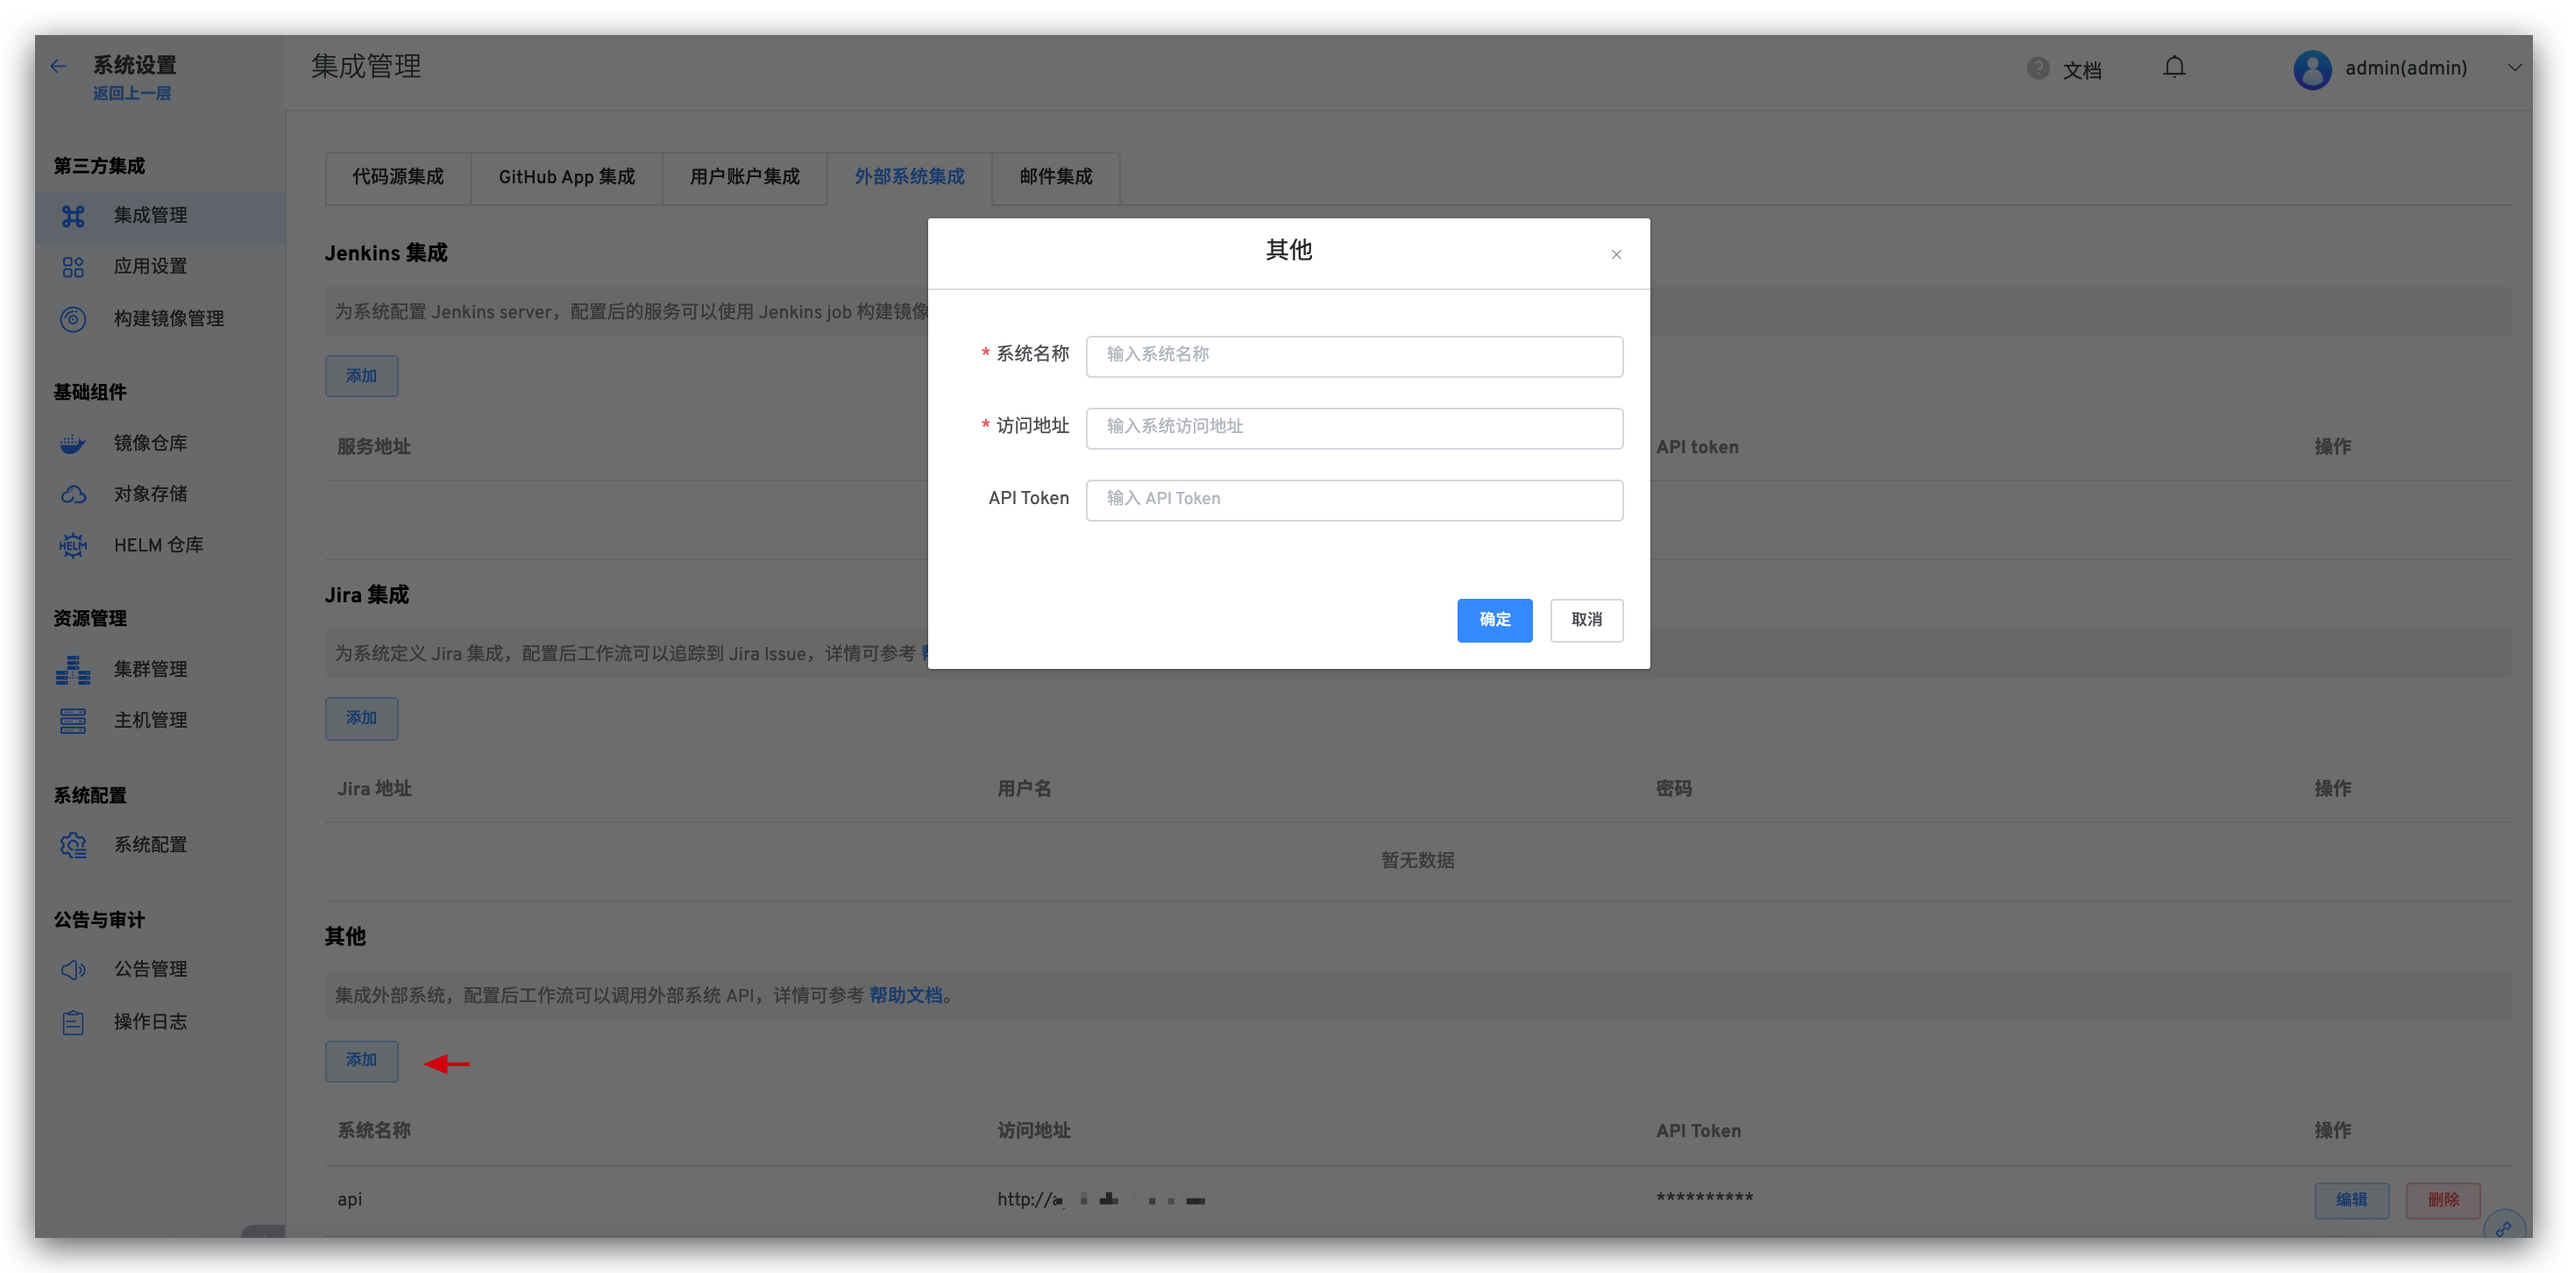
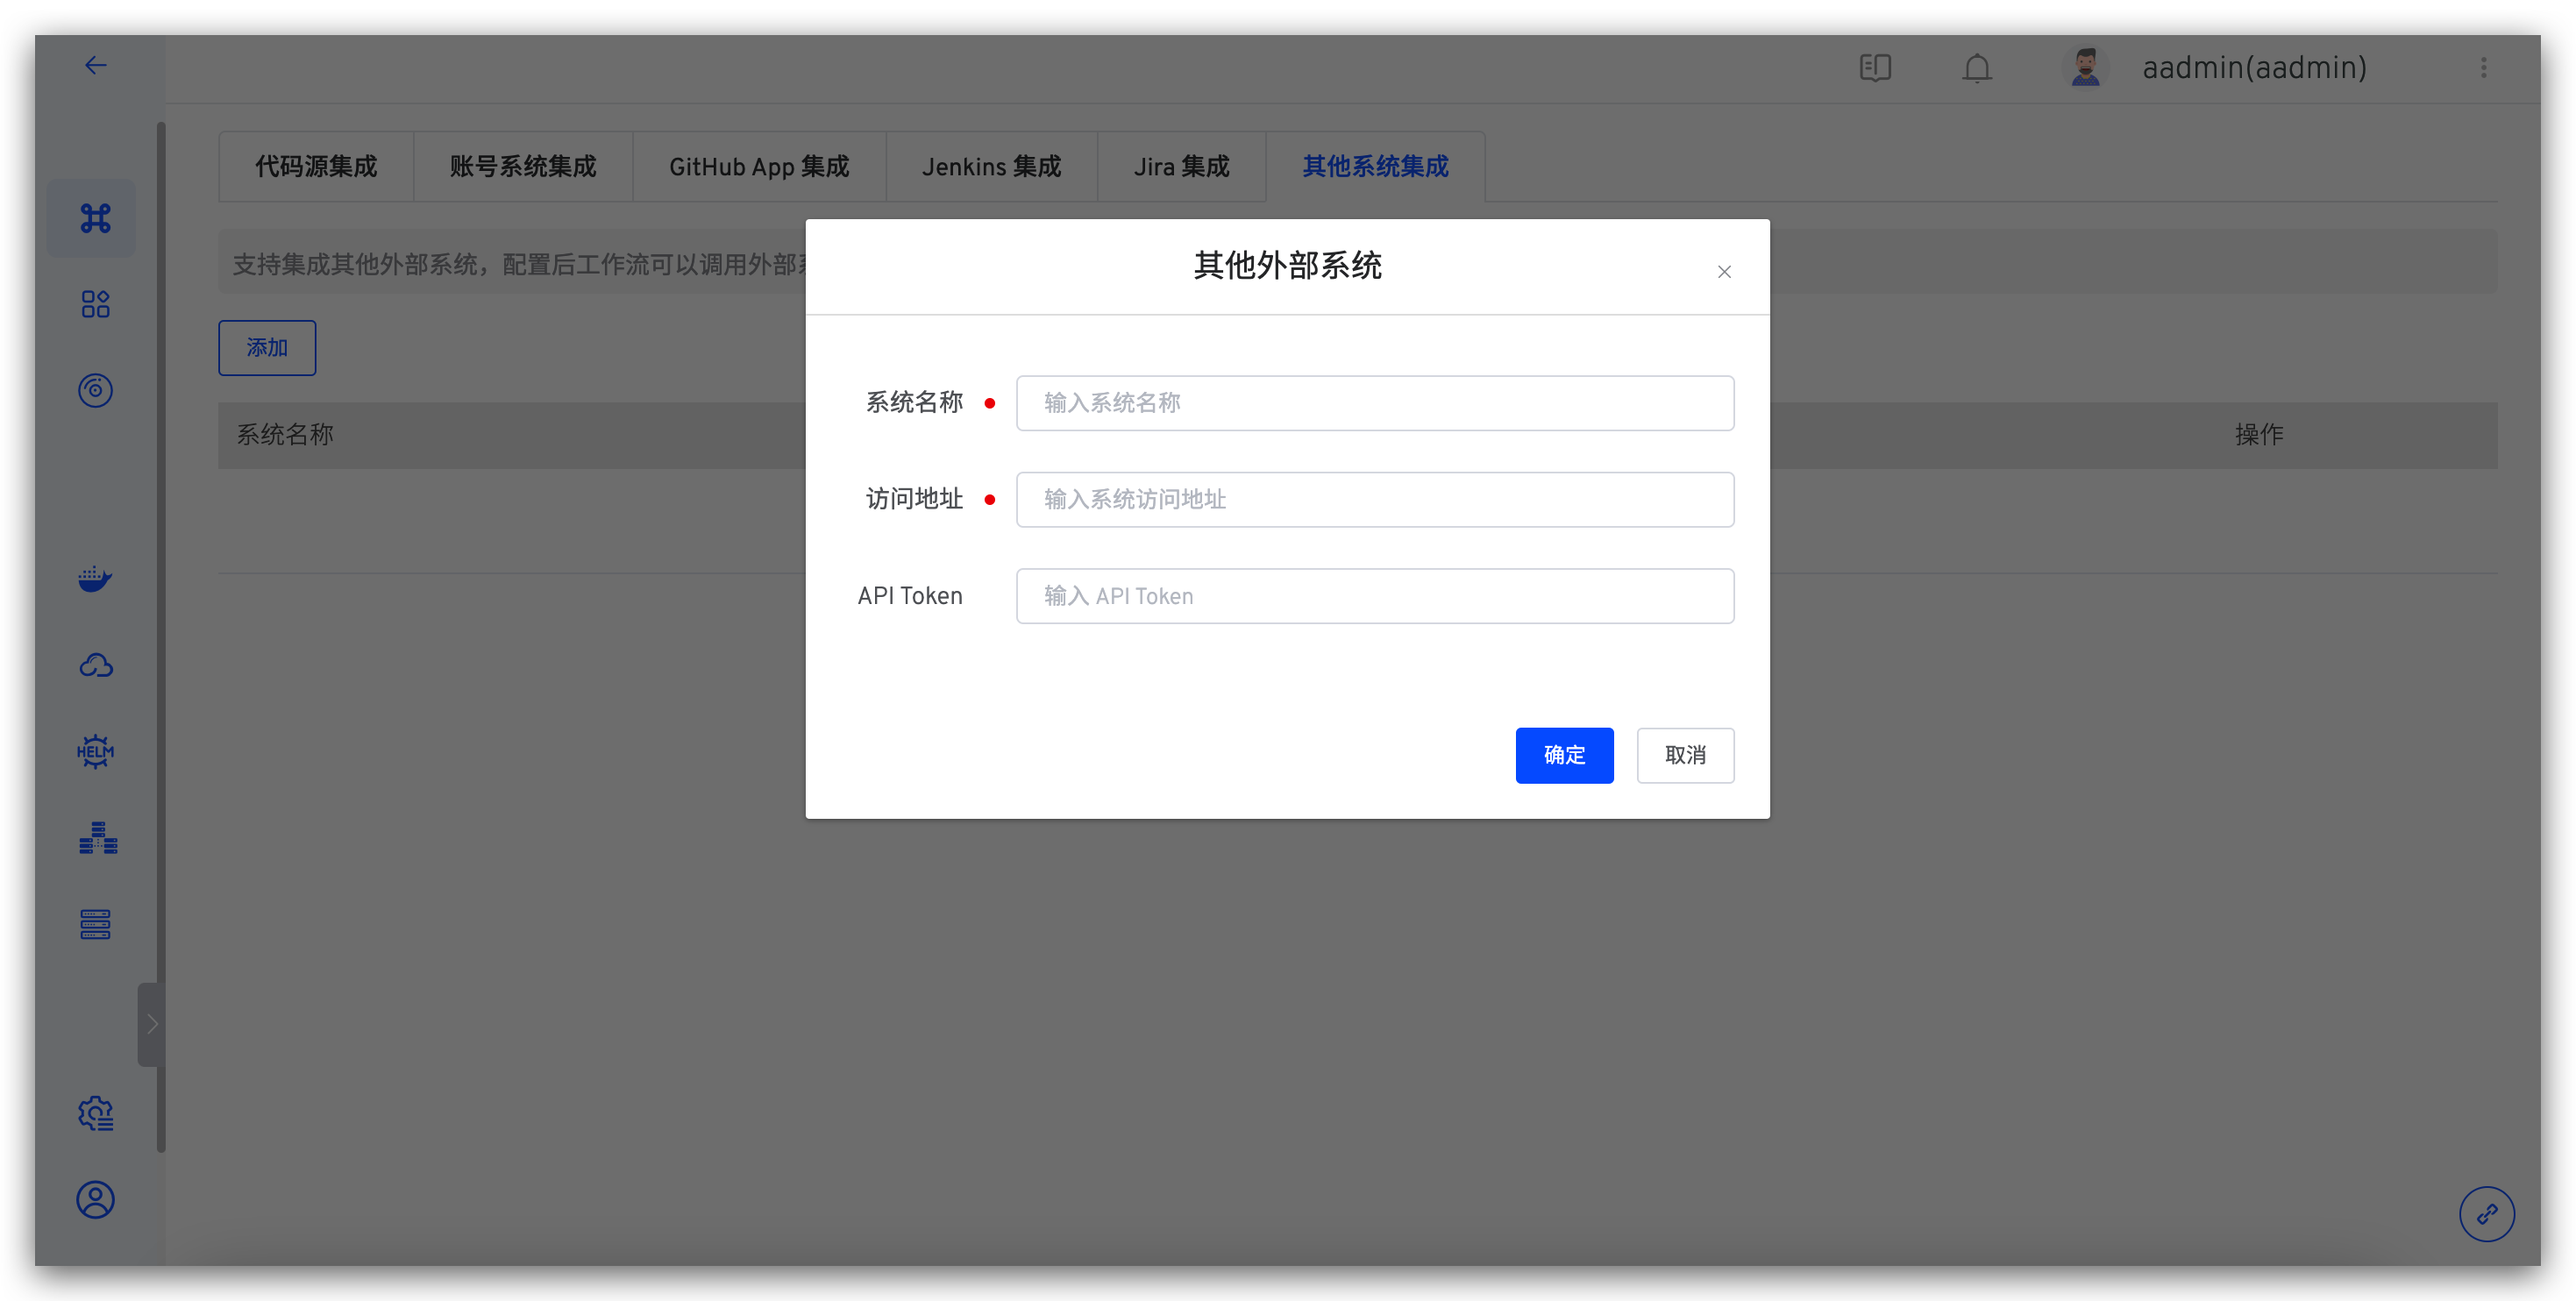
update jira/jenkins/other system img

diff --git a/dev/12.系统设置/05.others.md b/dev/12.系统设置/05.others.md
@@ -4,9 +4,12 @@ date: 2022-01-04 21:07:03
 permalink: /dev/settings/others/
 ---
 
-本文介绍在 Zadig 系统上集成其他外部系统。当前主要应用场景在`版本交付`-> `创建版本` 模块，可以通过配置外部系统 Hook 来接收 Helm Chart 版本交付完成的信息。
+本文介绍在 Zadig 系统上集成其他外部系统。
+主要应用场景
+1. 在`版本交付`-> `创建版本` 模块，配置 Hook 后，外部系统可以接收 Helm Chart 版本交付完成的信息。
+2. 在`工作流` -> `扩展` 模块，配置扩展后，外部系统可以接收工作流任务的相关信息。
 
-访问 Zadig，点击 `系统设置` -> `集成管理`  -> `其他` ，添加外部系统相关信息，如下图所示。
+访问 Zadig，点击 `系统设置` -> `集成管理`  -> `其他系统集成` ，添加外部系统相关信息，如下图所示。
 
 ![add_external_systems](./_images/add_external_systems.png)
 
